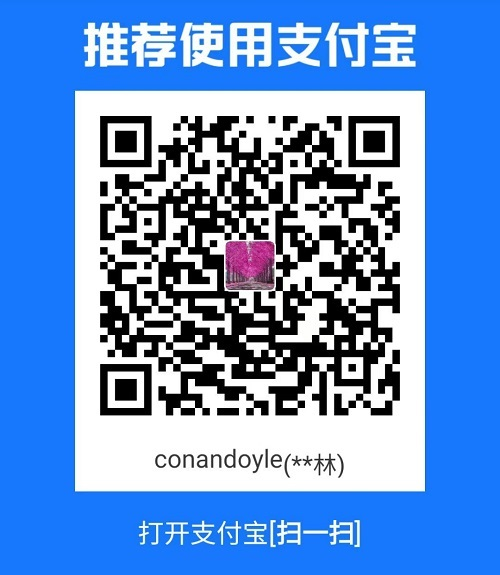
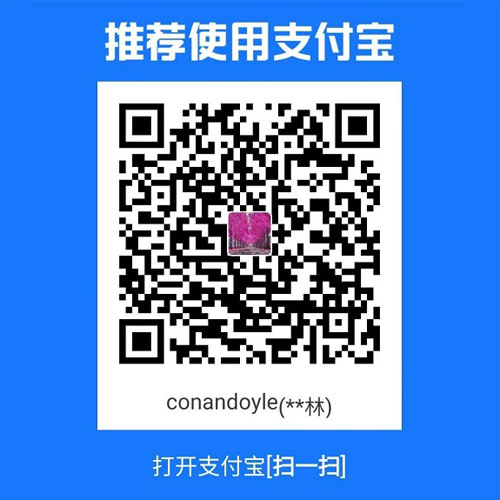
开发用户中心界面，体验改进

diff --git a/src/views/mine/user.vue b/src/views/mine/user.vue
@@ -1,0 +1,141 @@
+<template>
+    <div class="page-limit-width">
+        <div class="content-cage" style="padding:0">
+            <header class="mnu-user-bg">
+                <div class="mnu-user-profile fx-hc">
+                    <img :src="postList.length ? postList[0].authorAvatarUrl : publicAssets.iconDefaultUserAvatar" class="mnu-user-avatar" alt="用户头像" />
+                    <div class="pd-lr-rem5 fx-g1 tc-ff">
+                        <h4 class="dp-bk fs-1rem">{{postList.length ? postList[0].authorNickname : appWebName}}</h4>
+                        <p class="mg-t-rem25 fs-rem7">帖子&nbsp;<b>{{postList.length}}</b>&emsp;</p>
+                    </div>
+                </div>
+                <lulu-bg-bubble />
+            </header>
+            <ul v-if="postList.length">
+                <li v-for="item,index in postList" :key="item.id" class="pd-rem5 bd-b-f0 tp-f0 cs-p" @click="onItemClick(index)">
+                    <div class="fx-r">
+                        <p class="mnu-share-pic">
+                            <img :src="item.pictureList[0].thumbnailPath" class="hi-f" onerror="onImageLoadingError()" />
+                            <span v-if="item.pictureList.length > 1" class="mnu-pic-count">+{{item.pictureList.length - 1}}</span>
+                        </p>
+                        <p class="fx-g1 ps-r pd-l-rem5 fx-c">
+                            <span class="of-lc1 fw-b">{{item.title}}</span>
+                            <span class="of-lc1 fs-rem6 tc-99 pd-tb-rem25">{{item.locationAddress}}</span>
+                            <span class="dp-bk fs-rem6 tc-99 fx-g1">{{item.authorNickname}}&ensp;{{item.createTime}}</span>
+                        </p>
+                    </div>
+                </li>
+            </ul>
+            <section v-if="isLoading" class="ta-c pd-1rem">
+                <img :src="publicAssets.imageLoadingGif" alt="正在加载" class="dp-ib wh-2rem" />
+            </section>
+            <section v-else-if="errMsg" class="ta-c pd-1rem">
+                <b class="tc-o0">加载出错：</b>
+                <b class="tc-r0">{{errMsg}}</b>
+                <a class="tc-b0 fw-b" @click="onRetry">&emsp;重试</a>
+            </section>
+            <section v-else-if="isNoMore" class="ta-c pd-1rem">
+                <span v-if="postList.length" class="tc-cc">没有更多了~</span>
+                <span v-else class="tc-99">他还没有分享过照片~</span>
+            </section>
+        </div>
+    </div>
+</template>
+
+<script setup name="MineUser">
+    import { onMounted, reactive, ref } from "vue";
+    import { useRouter, useRoute } from "vue-router";
+    import { appWebName } from "@/assets/data/constants.js"
+    
+    import myStorage from "@/utils/mystorage.js";
+    import publicAssets from "@/assets/data/publicAssets.js";
+    import luluBgBubble from "@/components/luluBgBubble.vue";
+    import ajaxRequest from "@/request/index.js";
+    
+    const $router = useRouter();
+    const $route = useRoute();
+    const postList = reactive([]); //帖子列表，支持下拉加载更多！
+    const isLoading = ref(false); //是否正在加载
+    const isNoMore = ref(false); //是否还有更多数据
+    const pageIndex = ref(0); //第几页
+    const errMsg = ref(null); //加载时的错误文本信息
+
+    function getPostList(){
+        if(isLoading.value || isNoMore.value){
+            return;
+        } else {
+            isLoading.value = true;
+        }
+        
+        pageIndex.value++;
+        
+        //2024年8月16日，获取用户分享的照片
+        ajaxRequest("getUserPostByUid", { uid: $route.query.uid }).then(res => {
+            if(res.data && res.data.length){
+                postList.push(...res.data);
+            }
+            isLoading.value = false;
+            isNoMore.value = true;
+            errMsg.value = null;
+        }).catch(err => {
+            errMsg.value = err;
+            isLoading.value = false;
+            isNoMore.value = false;
+        });
+    }
+    function onRetry(){
+        isLoading.value = false;
+        isNoMore.value = false;
+        pageIndex.value = 0;
+        errMsg.value = null;
+        postList.splice(0);
+        getPostList();
+    }
+    function onItemClick(idx){
+        const item = postList[idx];
+        //数据量有点大，保存在临时存储里
+        myStorage.onceObject("user_sharepic_infos", item);
+        $router.push("/map3ddetails?sid=" + item.id);
+    }
+    
+    onMounted(getPostList);
+</script>
+
+<style scoped="scoped">
+    .mnu-user-bg{
+        height: 25%;
+        position: relative;
+    }
+    .mnu-user-profile{
+        position: absolute;
+        left: 0.5rem;
+        right: 0.5rem;
+        bottom: 1rem;
+        z-index: 8;
+    }
+    .mnu-user-avatar{
+        width: 4rem;
+        height: 4rem;
+        border-radius: 50%;
+        border: 0.15rem solid #fff;
+    }
+    .mnu-share-pic{
+        width: 4.2rem;
+        height: 4.2rem;
+        border-radius: 0.3rem;
+        overflow: hidden;
+        background-color: #eee;
+        text-align: center;
+        position: relative;
+    }
+    .mnu-pic-count{
+        display: block;
+        position: absolute;
+        right: 0.2rem;
+        bottom: 0.2rem;
+        z-index: 9;
+        font-size: 0.6rem;
+        color: #fff;
+        font-weight: 500;
+    }
+</style>

diff --git a/src/views/index/map3dShareDetails.vue b/src/views/index/map3dShareDetails.vue
@@ -1,7 +1,7 @@
 <template>
     <div class="page-limit-width">
         <template v-if="shareInfos && shareInfos.id===shareID">
-            <div class="fixed-limit-width msd-userinfo-box" :class="{'hidden': isHideText}">
+            <div class="fixed-limit-width msd-userinfo-box" :class="{'hidden': isHideText}" @click="gotoUserPage">
                 <img class="msd-user-avatar" :src="shareInfos.authorAvatarUrl || publicAssets.iconDefaultUserAvatar" />
                 <div class="mg-l-rem25 fx-g1">
                     <span class="dp-bk fw-b" title="分享这张照片的用户的名称">{{shareInfos.authorNickname}}</span>
@@ -55,7 +55,7 @@
     
     //swiper开发文档：https://www.swiper.com.cn/api/index.html
     //swiper属性大全：https://swiperjs.com/swiper-api
-    
+
     const $instance = getCurrentInstance();
     const $route = useRoute();
     const $router = useRouter();
@@ -84,6 +84,9 @@
     }
     function goBackToHomePage(){
         $router.replace("/");
+    }
+    function gotoUserPage(){
+        $router.push("/user?uid=" + shareInfos.authorNickname);
     }
 </script>
 

diff --git a/src/views/mine/index.vue b/src/views/mine/index.vue
@@ -44,7 +44,7 @@
             </section>
         </div>
         <action-popup v-model="popupVisible" :title="popupTitle" :buttons="popupButtons" @action="onPopupAction" />
-    </div>    
+    </div>
 </template>
 
 <script setup name="MineIndex">
@@ -143,7 +143,7 @@
             }
             
             navigator.vibrate(30);
-            popupTitle.value= item.title;
+            popupTitle.value= item.title.substr(0, 50);
             popupVisible.value = true;
             
             nonRVs.selectItemID = item.id;
@@ -169,7 +169,7 @@
     function onLogout(){
         alertConfirm("退出登录", "确定").then(() => {
             $store.dispatch("setUserInfo", null);
-            $router.replace("/");
+            $router.back();
         }).catch(() => 0);
     }
     function onPopupAction(key){

diff --git a/src/request/apis.js b/src/request/apis.js
@@ -12,4 +12,5 @@ export default {
     saveUserSharePics: "/xlttapi?__RM__=POST&action=save_share_pics", //保存用户分享的照片信息
     toggleMyPostStatus: "/xlttapi?__RM__=POST&action=toggle_my_post_status", //将我的帖子设为仅自己可见或全部人可见
     deleteMyPost: "/xlttapi?__RM__=POST&action=delete_my_post", //删除我的帖子
+    getUserPostByUid: "/xlttapi?__RM__=GET&action=get_user_post_by_uid", //根据用户ID获取用户发布的帖子
 }

diff --git a/src/router/pages.js b/src/router/pages.js
@@ -108,6 +108,14 @@ export default [
         }
     },
     {
+    	path: "/user",
+    	name: "用户中心",
+    	component: () => import("@/views/mine/user"),
+    	meta: {
+            showPageTitle: true
+        }
+    },
+    {
     	path: "/shareadd",
     	name: "分享照片",
     	component: () => import("@/views/mine/shareAdd"),

diff --git a/src/views/mine/shareAdd.vue b/src/views/mine/shareAdd.vue
@@ -47,7 +47,7 @@
     import pictureUploader from "@/components/pictureUploader.vue";
     import ajaxRequest from "@/request/index.js";
     
-    const MAX_TEXT_LENGTH = 200;
+    const MAX_TEXT_LENGTH = 800;
     
     const $instance = getCurrentInstance();
     const $router = useRouter();

diff --git a/src/views/help/donate.vue b/src/views/help/donate.vue
@@ -44,6 +44,7 @@
         display: block;
         margin: 0 auto;
         width: min(15rem, 500px);
-        height: auto;
+        min-height: min(15rem, 500px);
+        background-color: #f0f0f0;
     }
 </style>

diff --git a/public/php/uploader.php b/public/php/uploader.php
@@ -262,6 +262,26 @@ function delete_my_post(){
     ajax_error('无此帖子');
 }
 
+//根据用户ID获取用户发布的帖子
+function get_user_post_by_uid(){
+    $uid = $_GET['uid'];
+    $output = [];
+    
+    if($uid){
+        $root_dir = $_SERVER['DOCUMENT_ROOT'];
+        $path_dataset = $root_dir . '/sharepics/dataset.json';
+        $dat_list = json_decode(file_get_contents($path_dataset), true);
+        
+        foreach($dat_list as $vx){
+            if($vx['authorNickname'] === $uid && $vx['status'] === 1){
+                $output[] = $vx;
+            }
+        }
+    }
+    
+    ajax_success($output);
+}
+
 //调用函数
 $call_action = $_GET['action'];
 $headers = getallheaders();
@@ -270,7 +290,7 @@ if($headers['Authorization'] !== 'Bearer Xltt-Token'){
     ajax_error('登录已超时：'.$call_action);
 }
 
-if(in_array($call_action, ['upload_picture', 'save_share_pics', 'toggle_my_post_status', 'delete_my_post'])){
+if(in_array($call_action, ['upload_picture', 'save_share_pics', 'toggle_my_post_status', 'delete_my_post', 'get_user_post_by_uid'])){
     date_default_timezone_set('Asia/Shanghai');
     $call_action();
 } else {
